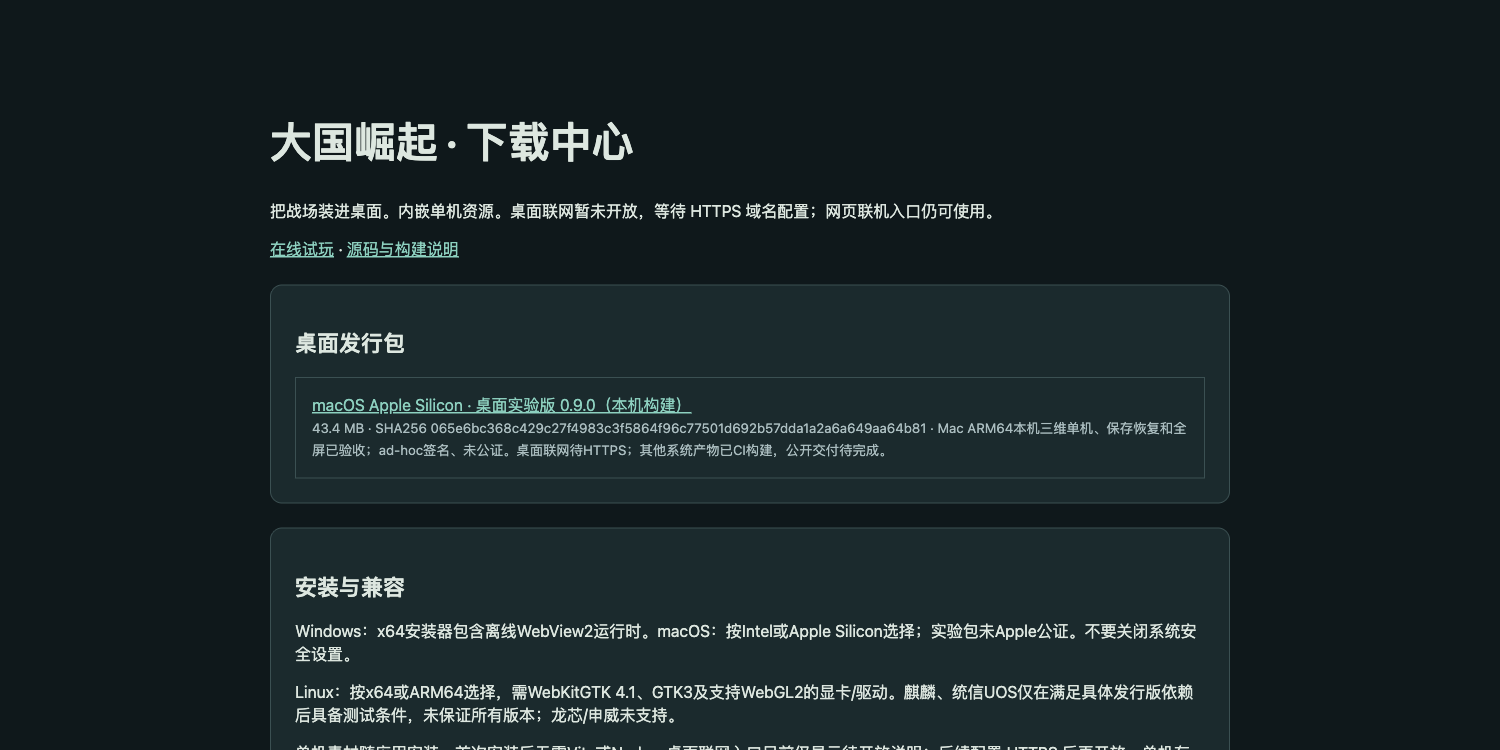
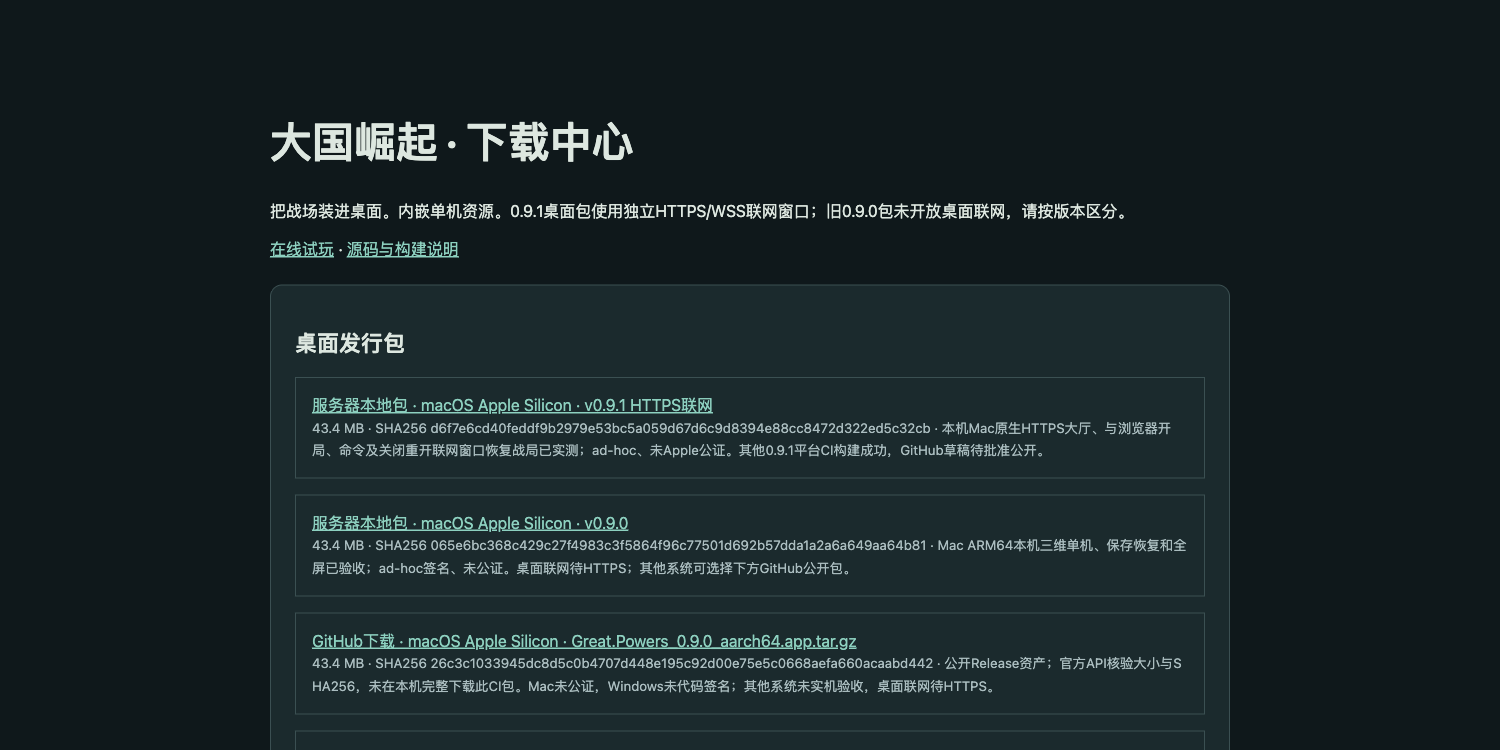
完成原生UI重连和新版服务器整包下载验收更新十三图文章

diff --git a/public/downloads/index.html b/public/downloads/index.html
@@ -1,3 +1,3 @@
-<!doctype html><html lang="zh-CN"><meta charset="utf-8"><meta name="viewport" content="width=device-width,initial-scale=1"><title>大国崛起 · 下载中心</title><style>body{background:#0d181b;color:#dbe7df;font:16px system-ui;max-width:960px;margin:60px auto;padding:24px}h1{font-size:42px}a{color:#77d3bf}section{background:#172a2d;padding:24px;margin:24px 0;border:1px solid #355052;border-radius:12px}.files{display:grid;gap:16px}.file{padding:16px;border:1px solid #355052;word-break:break-all}small{display:block;line-height:1.7;color:#a6bec0}button{background:#21423e;color:white;padding:12px;border:1px solid #68bda7}h2{font-size:22px}</style><h1>大国崛起 · 下载中心</h1><p>把战场装进桌面。内嵌单机资源。桌面联网暂未开放，等待 HTTPS 域名配置；网页联机入口仍可使用。</p><a href="/">在线试玩</a> · <a href="https://github.com/chencheng666/great-powers-rts">源码与构建说明</a><section><h2>桌面发行包</h2><div id="files" class="files">正在读取已发布文件…</div></section><section><h2>安装与兼容</h2><p>Windows：x64安装器包含离线WebView2运行时。macOS：按Intel或Apple Silicon选择；实验包未Apple公证。不要关闭系统安全设置。</p><p>Linux：按x64或ARM64选择，需WebKitGTK 4.1、GTK3及支持WebGL2的显卡/驱动。麒麟、统信UOS仅在满足具体发行版依赖后具备测试条件，未保证所有版本；龙芯/申威未支持。</p><p>单机素材随应用安装，首次安装后无需Vite或Node。桌面联网入口目前仅显示待开放说明；后续配置 HTTPS 后再开放。单机存档可原生导入/导出，并备份到应用数据目录；不同窗口身份和存档分开。</p></section><script>
+<!doctype html><html lang="zh-CN"><meta charset="utf-8"><meta name="viewport" content="width=device-width,initial-scale=1"><title>大国崛起 · 下载中心</title><style>body{background:#0d181b;color:#dbe7df;font:16px system-ui;max-width:960px;margin:60px auto;padding:24px}h1{font-size:42px}a{color:#77d3bf}section{background:#172a2d;padding:24px;margin:24px 0;border:1px solid #355052;border-radius:12px}.files{display:grid;gap:16px}.file{padding:16px;border:1px solid #355052;word-break:break-all}small{display:block;line-height:1.7;color:#a6bec0}button{background:#21423e;color:white;padding:12px;border:1px solid #68bda7}h2{font-size:22px}</style><h1>大国崛起 · 下载中心</h1><p>把战场装进桌面。内嵌单机资源。0.9.1桌面包使用独立HTTPS/WSS联网窗口；旧0.9.0包未开放桌面联网，请按版本区分。</p><a href="/">在线试玩</a> · <a href="https://github.com/chencheng666/great-powers-rts">源码与构建说明</a><section><h2>桌面发行包</h2><div id="files" class="files">正在读取已发布文件…</div></section><section><h2>安装与兼容</h2><p>Windows：x64安装器包含离线WebView2运行时。macOS：按Intel或Apple Silicon选择；实验包未Apple公证。不要关闭系统安全设置。</p><p>Linux：按x64或ARM64选择，需WebKitGTK 4.1、GTK3及支持WebGL2的显卡/驱动。麒麟、统信UOS仅在满足具体发行版依赖后具备测试条件，未保证所有版本；龙芯/申威未支持。</p><p>单机素材随应用安装，首次安装后无需Vite或Node。0.9.1桌面联网使用 https://43.135.186.21:8443/；旧0.9.0桌面联网仍为待开放说明。单机存档可原生导入/导出，并备份到应用数据目录；不同窗口身份和存档分开。</p></section><script>
 fetch('manifest.json',{cache:'no-store'}).then(r=>{if(!r.ok)throw Error('发行包尚未发布');return r.json()}).then(m=>{const box=document.querySelector('#files');box.replaceChildren();for(const f of m.files||[]){const card=document.createElement('div');card.className='file';const a=document.createElement('a');a.textContent=f.label;const u=new URL(f.name,location.href);const local=u.origin===location.origin&&u.pathname.startsWith('/downloads/');const github=u.protocol==='https:'&&u.hostname==='github.com'&&u.pathname.startsWith('/chencheng666/great-powers-rts/releases/download/desktop-v0.9.0/');if(!local&&!github)continue;a.href=u.href;if(local)a.download=f.name;else{a.target='_blank';a.rel='noopener noreferrer';}const meta=document.createElement('small');meta.textContent=`${(f.size/1024/1024).toFixed(1)} MB · SHA256 ${f.sha256} · ${f.status}`;card.append(a,meta);box.append(card)}if(!box.children.length)box.textContent='暂无通过校验的发行包。';}).catch(()=>{document.querySelector('#files').textContent='发行包尚未发布，请稍后查看；当前可以使用在线试玩。'});
 </script></html>

diff --git a/docs/wechat-https-20261012/公众号文章.md b/docs/wechat-https-20261012/公众号文章.md
@@ -82,7 +82,15 @@ https://43.135.186.21:8443/
 
 *真实原生窗口截图｜对手为浏览器测试身份，联网战局计时推进，电力站正在建造。没有把本地单机画面当成联网。*
 
-另用同一 Mac 上两个独立 Node 会话完成了可信 TLS、WSS、双席位建房加入、双方准备开局、第二席位命令和快照、断线暂停、同一战局重连恢复。浏览器页面刷新后重连的完整 UI 验收仍待补测，不能把协议脚本结果当成所有客户端的实机结果。
+另用同一 Mac 上两个独立 Node 会话完成了可信 TLS、WSS、双席位建房加入、双方准备开局、第二席位命令和快照、断线暂停、同一战局重连恢复。随后补做了原生 UI 重连：关闭专用联网窗口，浏览器显示“等待对手重连”；重开原生联网窗口后自动恢复原房间战局，资金仍为 2,990、计时继续推进。此测试是窗口关闭重开，并非断开整台电脑网络，也不能代表所有客户端或所有运营商环境。
+
+![浏览器等待原生重连](assets/browser-await-native-reconnect.png)
+
+*真实浏览器截图｜原生联网窗口关闭后，对手等待重连，战局暂停。*
+
+![原生窗口重连恢复](assets/native-ui-reconnected.png)
+
+*真实原生截图｜重开联网窗口自动恢复同一战局，资金 2,990、计时继续推进；之后已退出并清理测试房间。*
 
 证书由 Let's Encrypt 签发，SAN 是公开 IP 43.135.186.21，当前有效期为 2026-10-12 01:10:15 至 2026-10-18 17:10:14 UTC。短期证书必须可靠续期：服务器已设置每日两次检查、成功后重载代理，模拟续期通过。不提交联系邮箱，证书私钥留在服务器，没有随游戏包或源码公开。
 
@@ -113,25 +121,25 @@ macOS 实验包采用 ad-hoc 签名，未经过 Apple 公证；Windows 安装器
 
 https://github.com/chencheng666/great-powers-rts/releases/tag/desktop-v0.9.0
 
-现有服务器下载中心已提供一个 Mac ARM64 本地包和九个 GitHub 历史版本直链，明确区分下载来源。0.9.1 九项新产物已构建并保留在 GitHub 草稿，公开发行仍待明确批准。拟公开后的地址为 https://github.com/chencheng666/great-powers-rts/releases/tag/desktop-v0.9.1 ，当前不能当成匿名可下载链接。
+现有服务器下载中心已提供两个 Mac ARM64 本地包（0.9.1 与保留的 0.9.0）和九个 GitHub 历史版本直链，明确区分版本与来源。0.9.1 九项新产物已构建并保留在 GitHub 草稿，公开发行仍待明确批准。拟公开后的地址为 https://github.com/chencheng666/great-powers-rts/releases/tag/desktop-v0.9.1 ，当前不能当成匿名可下载链接。
 
-http://43.135.186.21:8088/downloads/
+https://43.135.186.21:8443/downloads/
 
 ![现有服务器下载中心](assets/download-center.png)
 
-*真实浏览器截图｜服务器已列出 Mac Apple Silicon 安装器、大小、SHA256 与适用范围。截图记录的是服务器单项下载，不代表所有平台已上传该服务器。*
+*真实浏览器截图｜服务器已列出 Mac Apple Silicon 新旧两版安装器及历史 GitHub 直链，大小、SHA256 与适用范围分别标明，不代表所有平台已镜像到服务器。*
 
-Mac ARM64 本机构建包直接地址：
+Mac ARM64 0.9.1 本机构建包直接地址：
 
-http://43.135.186.21:8088/downloads/packages/Great-Powers_0.9.0_aarch64.dmg
+https://43.135.186.21:8443/downloads/packages/Great-Powers_0.9.0_aarch64.dmg
 
-大小：45,532,066 字节。SHA256：
+大小：45,531,609 字节。SHA256：
 
 ```text
[2 lines of base64/hex data omitted]
 ```
 
-该服务器包的匿名 HEAD 返回 200；服务器通过公网地址与本机 HTTP 完整读取的哈希均一致。外部 Mac 读取的前 2,334,720 字节也一致，慢速链路上的整包下载未完成。服务器包和 GitHub CI 包来自不同构建环境，大小与哈希不同，请按各自下载来源核对，不能混用校验值。测试服务器仍在腾讯云硅谷，不称为国内下载站。
+该服务器包的匿名 HEAD 返回 200；服务器通过可信 HTTPS 完整读取的哈希一致，外部 Mac 的完整匿名 GET 大小与 SHA256 也通过。服务器包和 GitHub CI 包来自不同构建环境，大小与哈希不同，请按各自下载来源核对，不能混用校验值。测试服务器仍在腾讯云硅谷，不称为国内下载站。
 
 网页试玩 / 双人联网测试：
 
@@ -151,6 +159,6 @@ https://github.com/chencheng666/great-powers-rts/issues
 
 欢迎告诉我你的系统版本、处理器架构、显卡与驱动、地图、阵营和复现步骤，有截图或存档更好。会代码、建模、配音和平衡测试的朋友，也欢迎通过 Issue 和 PR 一起共建，素材请说明来源与许可。
 
-下一轮继续做其他平台文件操作验收、桌面与浏览器 UI 重连验收、不同系统实机测试，以及战场细节与长局稳定性。先把今天能玩的做好，再把下一步做到。谢谢每个愿意认真打开游戏、指出问题的朋友。
+下一轮继续做其他平台文件操作验收、更多网络环境的 UI 重连验收、不同系统实机测试，以及战场细节与长局稳定性。先把今天能玩的做好，再把下一步做到。谢谢每个愿意认真打开游戏、指出问题的朋友。
 
-说明：本文为公众号 Markdown 草稿，尚未发布公众号；开发与整理使用 Codex 辅助。十一张配图均为真实运行截图，原生桌面与浏览器来源已分别标明。
+说明：本文为公众号 Markdown 草稿，尚未发布公众号；开发与整理使用 Codex 辅助。十三张配图均为真实运行截图，原生桌面与浏览器来源已分别标明。

diff --git a/README.md b/README.md
@@ -8,9 +8,9 @@
 
 ## 10 月 12 日 HTTPS 桌面实验版 v0.9.1
 
-可信 HTTPS/WSS 入口：https://43.135.186.21:8443/ 。现有 HTTP、443 代理及数据库保留。0.9.1 本机 Mac 原生联网窗口与浏览器实际双席位大厅、开局、建造指令通过；协议层双独立会话同步、断线暂停与重连通过，完整 UI 重连仍待补测。远程页面不授予本地原生权限。
+可信 HTTPS/WSS 入口：https://43.135.186.21:8443/ 。现有 HTTP、443 代理及数据库保留。0.9.1 本机 Mac 原生联网窗口与浏览器实际双席位大厅、开局、建造指令通过；协议层双独立会话同步、断线暂停与重连通过，原生关闭重开联网窗口的 UI 重连已通过（同Mac双客户端）。远程页面不授予本地原生权限。
 
-五平台 CI 均成功，九项新桌面资产仍是待批准公开的草稿；旧0.9.0继续保留。Mac实验包未公证、Windows未签名，其他平台和麒麟/UOS具体系统硬件未实测。[构建记录](https://github.com/chencheng666/great-powers-rts/actions/runs/38195369859) · [十一图Markdown稿](docs/wechat-https-20261012/公众号文章.md) · [校验值](docs/wechat-https-20261012/草稿发行九项校验.json)
+五平台 CI 均成功，九项新桌面资产仍是待批准公开的草稿；旧0.9.0继续保留。Mac实验包未公证、Windows未签名，其他平台和麒麟/UOS具体系统硬件未实测。[构建记录](https://github.com/chencheng666/great-powers-rts/actions/runs/38195369859) · [十三图Markdown稿](docs/wechat-https-20261012/公众号文章.md) · [校验值](docs/wechat-https-20261012/草稿发行九项校验.json)
 
 ## 10 月 9 日反馈改进 v0.8.0
 
